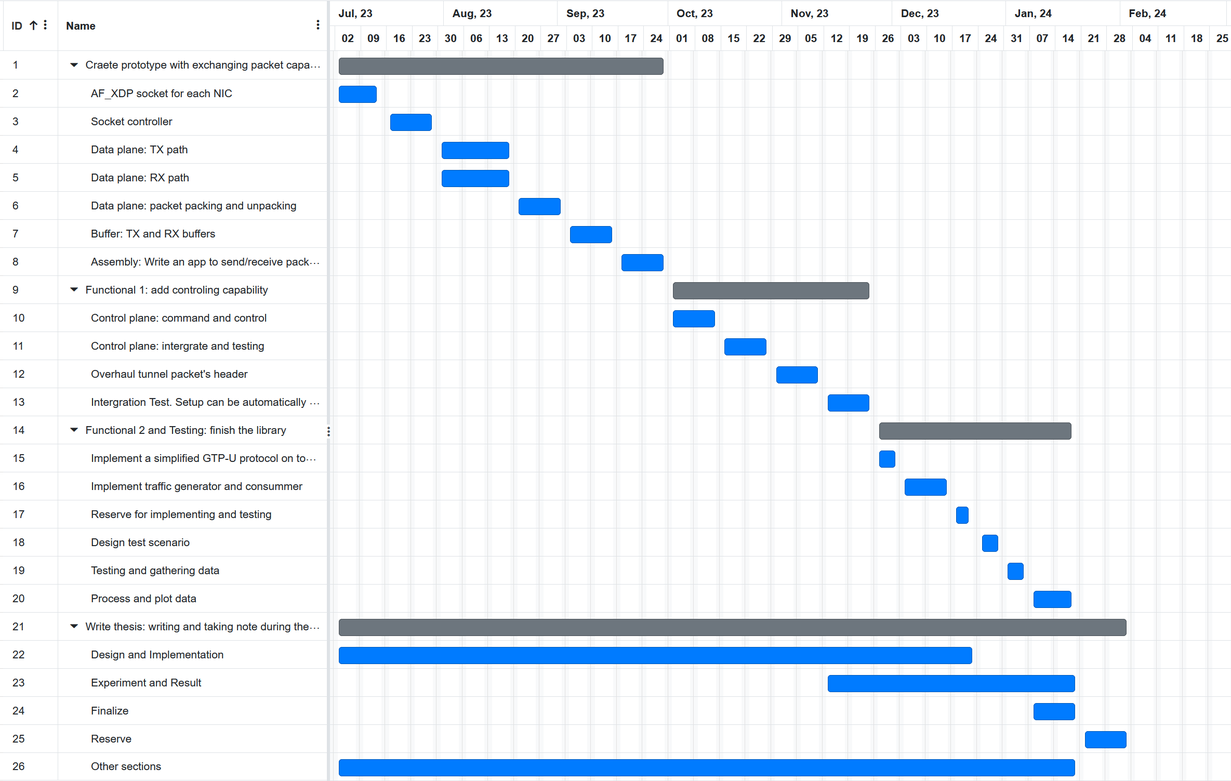
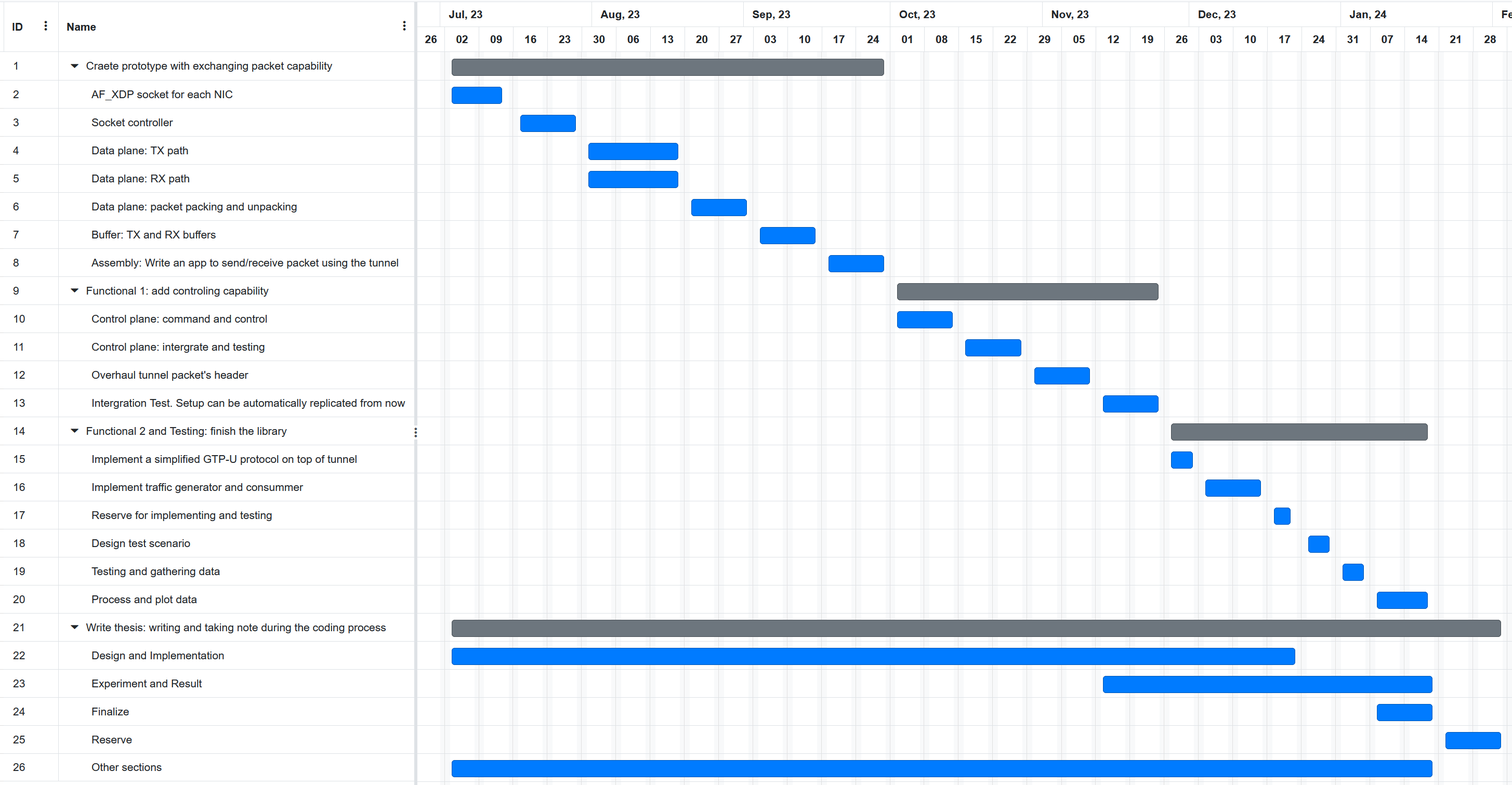
reday for review

diff --git a/src/02_related.tex b/src/02_related.tex
@@ -1,15 +1,5 @@
 \cleardoublepage\chapter{Related Work}\label{sec:related_work}\minitoc\vspace{.5cm}\index{SotA}
 
-\section{Introduction}
-
-% \begin{wrapfigure}{r}{0.2\textwidth}
-%     \centering
-%     \includegraphics[width=0.2\textwidth]{resources/images/example3}
-% \end{wrapfigure}
-
-% \sidenote{Overview}
-% \todomid{write}
-
 The concept of multipath is well-established, and in this section, we will explore notable existing multipath protocols, their characteristics, and highlight the unique aspects of our concept. 
 Additionally, we will discuss future use cases for our \ac{MTX} and examine current solutions and technologies being utilized. 
 Finally, we will take a closer look at the design of the 5G system, with a specific focus on the Data Plane, to explain our plan for showcasing the multipath tunnel using the \ac{gptu} protocol.
@@ -33,9 +23,9 @@ Our primary emphasis is on establishing a connection between two points, irrespe
 % We will explore various protocols that implement the concept and make comparisons with our approach.
 There are 2 approaches to utilize multiple links: managing multiple underlying connections created by existing protocols (\ac{MPTCP} with TCP), and creating a new multipath protocol (\ac{SCTP}).
 Drawing inspiration from these protocols, our design of \ac{MTX} adopts a hybrid approach: a tunnel that transfers data over multiple UDP connections instead of maintaining TCP sessions. 
-The tunnel comprises two primary logical components: the control plane and the transport plane. 
-The control plane handles session management, congestion control overhead, and other administrative tasks, enabling the transport plane to be constructed with wrappers over UDP sockets.
-Unlike serving solely the socket caller, the multipath tunnel is designed to offer connection and flow management for multiple applications, enabling centralized resource management and scheduling.
+The tunnel data path comprises two primary logical stages: the data stage and the transport stage. 
+The data stage handles session management, congestion control overhead, and other administrative tasks, enabling the transport stage to be constructed with wrappers over UDP sockets.
+Unlike serving solely the caller, the multipath tunnel is designed to offer connection and flow management for multiple applications, enabling centralized resource management and scheduling.
 
 \subsection{Multipath TCP}\label{sec:related_work:mp_connection:MPTCP}
 % MultiPath TCP (MPTCP) is an effort towards enabling the simultaneous use of several IP-addresses/interfaces by a modification of TCP that presents a regular TCP interface to applications, while in fact spreading data across several subflows. Benefits of this include better resource utilization, better throughput and smoother reaction to failures. 
@@ -63,7 +53,7 @@ Notably, \ac{SCTP} is used in 5G core design for transmitting messages in Contro
 \begin{figure}[H]
 	\centering
 	\includegraphics[width=0.8\textwidth]{resources/images/3gpp_5g_part_of_control_plane_protocol.png}
-	\caption{Control Plane protocol stack between the UE, the 5G-AN, the AMF and the SMF \cite{3gpp_5g_system_overview}}
+	\caption{3GPP: Control Plane protocol stack between the UE, the 5G-AN, the AMF and the SMF \cite{3gpp_5g_system_overview}}
     \label{fig:related_work:3gpp_5g_part_of_control_plane_protocol}
 \end{figure}
 
@@ -75,13 +65,13 @@ These components are categorized into two groups: the Control plane and the Data
 \begin{figure}[H]
 	\centering
 	\includegraphics[width=1.0\textwidth]{resources/images/Non_Roaming_5G_System_Architecture_in_reference_point_representation.png}
-	\caption{Non-Roaming 5G System Architecture in reference point representation \cite{3gpp_5g_system_architect_spec_release_18}}
+	\caption{Data and Control Plane in 3GPP's Non-Roaming 5G System Architecture in reference point representation \cite{3gpp_5g_system_architect_spec_release_18}}
 	\label{fig:related_work:Non_Roaming_5G_System_Architecture_in_reference_point_representation}
 \end{figure}
 
 As mentioned in \Cref{sec:related_work:mp_connection:SCTP}, the control plane uses \ac{SCTP} protocol with multipath support for its internal communication.
 The Data plane relies on \ac{gptu} protocol with \ac{UDP} as the transport protocol to deliver high volume of data between \ac{UE} and \ac{DN} (see \Cref{fig:introduction:3gpp_5g_data_plane_protocol}), which require powerful processing power and high capable network link.
-According to \ac{3GPP}, an non-exhausted list of \ac{UPF}'s responsibility is Packet routing \& forwarding, Packet inspection, buffering, sending and forwarding \cite{3gpp_5g_system_architect_spec_release_18}.
+According to \ac{3GPP}, an non-exhausted list of \ac{UPF}'s responsibility is \textit{packet routing \& forwarding}, packet \textit{inspection}, \textit{buffering}, \textit{sending} and \textit{forwarding} \cite{3gpp_5g_system_architect_spec_release_18}.
 In order to meet the \ac{SLA} and \ac{QoS} requirements, the \ac{UPF} needs to be deployed in various locations, such as the edge (edge and campus), regional sites, and central data centers \cite{zte_upf_full_whitepaper}. 
 The size and form of each \ac{UPF} instance vary significantly depending on factors such as the number and size of downstream and upstream functions it manages and responds to, as depicted in \Cref{fig:related_work:Deployment_Requirements_of_Full_Scenario_UPF}.
 
@@ -126,8 +116,9 @@ Unlike \ac{dpdkpage}, \ac{xdppage} socket has no monopoly on the \ac{NIC}, thus 
 By providing independent memory space, interrupts, and \ac{DMA} streams for each virtual machine, natively shared devices by \ac{sriov} achieve low latency and lower CPU utilization compared to virtual devices provided by traditional \ac{VMM}'s Virtual Switch or  I/O emulation layer (see \Cref{fig:related_work:intel_sriov_Natively_and_Software_Shared}) \cite{intel_sriov}.
 As the \ac{sriov} specification is developed by \ac{PCISIG}, the consortium responsible for the \ac{PCIe} standard, there is no risk of vendor lock-in or significantly hidden cost.
 A similar but less sophisticated method - namely \ac{PCIe} passthrough - to eliminates emulation overhead on I/O operation in hypervisor environment is completely disconnecting the \ac{PCIe} device from the host kernel and connecting it to the guest \ac{OS} instead, although this makes device sharing impossible.
-However, it is important to note that the \ac{sriov} specification is specifically designed for passing resources to and from a hypervisor environment, which is not conflict with our intended scenario.
-The \ac{MTX} is designed as a general-purpose multipath tunnel that functions on \ac{NIC}s, making \ac{sriov} technology the underlying infrastructure layer for enabling \ac{MTX}'s \ac{xdppage} sockets to operate on the native shared devices, similar to how \ac{ZTE} used \ac{sriov} in conjunction with \ac{dpdkpage} in their software stack \cite{zte_upf_full_whitepaper}.
+It is also important to note that the \ac{sriov} specification is specifically designed for passing resources to and from a hypervisor environment, which is not conflict with our intended scenario.
+The \ac{MTX} is designed as a general-purpose multipath tunnel that functions on \ac{NIC}s, making \ac{sriov} technology the underlying infrastructure layer for enabling \ac{MTX}'s \ac{xdppage} sockets to operate on the native shared devices.
+This is similar to how \ac{ZTE} used \ac{sriov} in conjunction with \ac{dpdkpage} in their software stack \cite{zte_upf_full_whitepaper}.
 
 \begin{figure}[H]
 	\centering
@@ -143,7 +134,7 @@ The \ac{MTX} is designed as a general-purpose multipath tunnel that functions on
 \Cref{fig:related_work:5g_dp_enhancement} describes how data is moved between \ac{UE} and \ac{DN} based on 3GPP specification and various sources.
 A \ac{PDU} session is established to create a logical data path between \ac{UE} and \ac{UPF}.
 This \ac{PDU} logical session runs on top of several transporting protocol.
-Radio Bearer (RB) is the channel to move user data and control data between UE and radio equipment over. 
+Radio Bearer (RB) is the channel to move user data and control data between UE and radio equipment.
 \ac{eCPRI} connects front-haul network and moves user data, controlling and management data, and synchronization data flows between DU and RU \cite{eCPRI_spec}.
 \ac{gptu} connection - often called \textit{tunnel} - helps transferring user data between middle-haul and back-haul networks in UDP packets.
 Data in different categories receive forwarding treatment differently, depends on the priority, subscription, ... 

diff --git a/src/04_design_approach.tex b/src/04_design_approach.tex
@@ -70,8 +70,8 @@ In Linux, tasks can operate in two distinct modes: kernel mode and user mode. Wh
 Invisible to end user, the system switches between kernel mode and user mode very often, usually when a system \ac{API} is involved or a resource needs to be accessed \cite{Robert_linux_kernel_dev}.
 % Although switching between modes is supported by the CPU, significant overhead is caused by switching context and translating memory address.
 % Running code purely in the kernel space could reduce such overhead and have better scheduling policy, however this faces the risk of compromising the system through memory leak, crashing or malicious exploit 
-While the CPU supports mode switching, there is a noticeable overhead associated with context switching and memory address translation. 
-Running code exclusively in the kernel space has the potential to reduce this overhead and improve scheduling policies. 
+Although the CPU supports mode switching, there is a noticeable overhead associated with context switching and memory address translation. 
+Running code exclusively in the kernel space has the potential to reduce this overhead and enjoy \textit{better} scheduling policies. 
 However, such an approach carries inherent risks, including the possibility of system compromise due to memory leaks, crashes, or malicious exploits \cite{lwn_detect_kernel_mem_leak} \cite{emamdoost_detecting_2021}.
 % \ac{BPF} technology is a alternative tool to execute code in kernel space in a controlled environment.
 % It was introduced in 1992 for \ac{BSD} OS and ported to Linux later. 
@@ -98,7 +98,7 @@ To get started, the kernel program is inserted to the desired code path in the k
 \begin{figure}[H]
 	\centering
 	\includegraphics[width=0.8\textwidth]{af_xdp_vs_dpdk_3_micro_benchmarks.PNG}
-	\caption{Comparing performance between \ac{xdppage} and \ac{dpdkpage} \cite{karlsson_path_to_dpdk_speednodate}. The authors tested  rxdrop (dropping all arriving packets), txpush (pushing packets out a NIC) and l2fwd (Level-2-forwarding, replacing MAC address of incoming packets and pushing them out) scenarios.}\label{fig:approach_design:af_xdp_vs_dpdk_3_micro_benchmarks}
+	\caption{Comparing performance between \ac{xdppage} and \ac{dpdkpage} \cite{karlsson_path_to_dpdk_speednodate}. The authors tested  rxdrop (dropping all arriving packets), txpush (pushing packets out a NIC) and l2fwd (Level-2-forwarding, replacing MAC address of incoming packets and pushing them out) scenarios. DPDK continues to be the leading solution in terms of raw performance.}\label{fig:approach_design:af_xdp_vs_dpdk_3_micro_benchmarks}
 \end{figure}
 
 \ac{xdppage} is a type of Linux socket that utilizes \ac{ebpf} to deliver incoming raw network packets arrived from a \ac{NIC} to user space with comparable performance to \ac{dpdkpage} \cite{karlsson_path_to_dpdk_speednodate}. 
@@ -109,7 +109,7 @@ Being a native Linux's feature, \ac{xdppage} has several advantages over other 3
 \begin{itemize}
 	\item Reducing dependency: minimizing the reliance on third-party libraries reduces the concern for potential vulnerabilities.Furthermore, this approach guarantees the longevity of the product, as the socket is maintained by the dedicated team of kernel developers, indicating that the project is unlikely to be discontinued in the near future. 
 	\item License: no special license required. However, the eBPF kernel program must be licensed under GNU \ac{GPL} since anything uses eBPF in kernel space is considered a derivative work \cite{gpl_email_discussion} \cite{linux_license_rule} \cite{lwn_clarify_bpf_license}.
-	\item Security and Update: the open-source and collaborative nature of Linux ensures that its code base is diligently maintained by dedicated maintainers and an active community of contributors.
+	\item Security and Update: the open-source and collaborative nature of Linux ensures that its code base is diligently maintained by dedicated maintainers and an active community of contributors, including researcher from universities and institutes, employee from industrial vendors and individual hobbyist.
 \end{itemize}
 
 \begin{figure}[H]
@@ -124,20 +124,20 @@ Being a native Linux's feature, \ac{xdppage} has several advantages over other 3
 \begin{figure}[H]
 	\centering
 	\includegraphics[width=1.0\textwidth]{mtx_design_and_workflow.png}
-	\caption{The architecture of our MTX tunnel and the flow of packets}
+	\caption{The architecture of our MTX tunnel and the flow of packets. The notation \textit{1, 2 and 3} describe how  packets from application travel through the egress path. Notation \textit{4 to 8} show how application receive the packets from tunnel and normal Linux socket.}
 	\label{fig:approach_design:mtx_design_and_workflow}
 \end{figure}
 
 The tunnel will be implemented in C for Linux. It consisted of 4 main components: eBPF kernel program, shared buffer, data plane and control plane.
 
 \subsection{Buffers}
-Buffers are separated into tx (transmit) and rx (receive) buffers that are available for application use. 
+Buffers are separated into tx (transmit, see notation \textit{1}) and rx (receive, see notation \textit{8}) buffers that are available for application use. 
 These buffers facilitate efficient data transfer for different streams and priorities, allowing the application to write to or read from the appropriate buffer as needed.
 
 \subsection{Kernel Program}
-XDP kernel program is responsible for filtering tunnel packets based on criteria like UDP port, IP address, and the magic number in the tunnel header. 
-These filtered packets are then delivered to the Packet aggregator for subsequent processing. 
-Conversely, all other packets that are not of interest to us are passed through to the Linux network stack.
+XDP kernel program (see notation \textit{4}) is responsible for filtering tunnel packets based on criteria like UDP port, IP address, and the magic number in the tunnel header. 
+These filtered packets are then delivered to the Packet aggregator for subsequent processing (notation \textit{5}). 
+Conversely, all other packets that are not of interest to us are passed through to the Linux network stack (notation \textit{6 and 9}).
 While it may be tempting to offload additional tasks such as unpacking and decryption to the kernel program for improved performance, it is important to note that this approach would significantly increase development time.
 
 \subsection{Data Plane}
@@ -148,9 +148,9 @@ Data plane functionality is divided into two main paths: the TX path and the RX 
 \end{itemize}
 
 \subsection{Control Plane}
-The control plane plays a vital role in the system as it handles various interactions with the application. 
+The control plane plays a vital role in the system as it handles various interactions with the application (notation \textit{7}). 
 It is responsible for configuration management, initiation, termination, and runtime information exchange. 
-The control plane acts as the central control hub, governing and coordinating all other components of the system.
+The control plane acts as the central control hub, governing and coordinating all other components of the tunnel.
 
 % \begin{itemize}
 %     \item Top level

diff --git a/src/01_introduction.tex b/src/01_introduction.tex
@@ -26,6 +26,7 @@ A connection that supports the concept of \textit{multipath} utilizes multiple n
 Protocols like \ac{MPTCP} and \ac{SCTP} operate in this manner, but they are implemented as non-sharable connections.
 A non-share connection is initiated similarly to establishing a socket and can only be utilized by the program initiating it. This limitation severely restricts the ability to effectively control, schedule, and share multipath resources among multiple applications. 
 Tasks such as prioritization and buffering become challenging without a centralized control plane that can orchestrate communication channels, which is currently absent in these protocols.
+
 %
 We propose another tunnel implementation: \ac{MTX}. 
 % The tunnel will have multipath support by design, allow multiple applications to share the connection simultaneously, and be built based on Linux's \ac{xdppage} socket family.
@@ -132,26 +133,20 @@ This allows for improved reliability and more effective utilization of resources
 
 % \sidenote{Research Assumptions}
 % \todomid{write about the research assumptions~\cite{li2002design}}
-Besides the reliability's \ac{QoS} characteristic, we define the metrics to measure performance of a tunnel as follow:
-\begin{itemize}
-    \item Bandwidth: Quantity of data that can be transmitted through per second, usually measured in Megabit per Second (Mb/s) or Gigabit  per Second (Gb/s)
-    \item Latency: Delay, measured in microsecond (us) or millisecond (ms). Latency introduced by the tunneling process at both ends compared to sending data over the same public path without the tunnel.
-    \item System load: Tunneling process costs CPU time and RAM usage.
-\end{itemize}
 
 % The idea
 The project is inspired by \ac{5G}'s \ac{NFV} and \ac{SDN} influenced specification.
 Being recognized as the 2 technology enabler for realizing 5G networks, they allow concepts such as \textit{slicing} or \textit{decoupling} of hardware-software planes and control-data planes \cite{yousaf_nfv_sdn_key_techno_for_5g2017} \cite{open_baton} which make \ac{5G} a much more capable network standard than its predecessor while remains flexible and agile for operators \todo{better wording here}.
 \ac{NFV} moves dedicated functions such as router, firewall that traditionally ran on dedicated hardware to virtualized environment and cloud-based infrastructure.
 \ac{SDN} encourages using software based solution running on common hardware and software stack over conventional equipment and services which integrated on rigid hardware-based proprietary.
-\ac{NFV} and \ac{SDN} thus helps reducing capital and operational expenditures, speeding up the release process and avoid vendor locking \cite{yousaf_nfv_sdn_key_techno_for_5g2017} \cite{sun_integrating_2015}.
+\ac{NFV} and \ac{SDN} thus helps reducing capital and operational expenditures, speeding up the release process and avoid vendor locking \cite{yousaf_nfv_sdn_key_techno_for_5g2017}\cite{sun_integrating_2015}.
 These trends heavily influence the 5G infrastructure to employ recent software industry's practices, which include agile development, orchestration, moving to cloud, dynamic deployment, and \ac{HA} through horizontal partition.
 \ac{5G}'s distributed network services and diverse \ac{QoS} require reliable and high throughput connection, which as discussed in \Cref{sec:introduction:problem_statement} can be horizontally implemented in an performant and cost-effective way using multiple links instead of vertical scaling paradigm.
 
 % building block:
-Moving functions to cloud and virtual environment faces performance challenges, one of which is the overhead introduced by the abstraction, virtualization layers as well as the extra input/output and communication between functions that can be found locally before \cite{yousaf_nfv_sdn_key_techno_for_5g2017}.
+Moving functions to cloud and virtual environment faces performance challenges, one of which is the overhead introduced by the abstraction, virtualization layers as well as the extra input/output and communication between functions that could be found locally before \cite{yousaf_nfv_sdn_key_techno_for_5g2017}.
 Although the running newly designed cloud-native software on orchestrated thin containers help addressing the performance problem, we believe some aspects of the connection can be improved further, namely compatibility and ease of development and deployment.
-In many 5G's implementation, technologies such as \ac{dpdkpage} and \ac{sriov} are being used to deliver line-speed packet processing capability to hypervisor environment with minimal impact on system performance \cite{intel_dpdk_perf} \cite{openstack_sriov} \cite{zte_5g_core_upf_impl} \cite{nec_hite_paper_upf_perf}.
+In many 5G's implementation, technologies such as \ac{dpdkpage} and \ac{sriov} are being used to deliver line-speed packet processing capability to hypervisor environment with minimal impact on system performance \cite{intel_dpdk_perf}\cite{nec_hite_paper_upf_perf}\cite{openstack_sriov}\cite{zte_5g_core_upf_impl}.
 We believe that these technologies proved their worthy, yet the systems suffer from limitation such as special requirement and configuration \todo{cite, that dpdk and sriov can't run on all commercial system}.
 This would not only increase cost, but also make the product less attractive for research and test bed purposes, especially in the open source and academy community where budget and custom support is limited.
 To address this, using a native and more simple Linux's technology - \ac{xdppage}, a new socket family based on eBPF technology with comparable performance to \ac{dpdkpage} - to build a tunnel that is designed to support multipath and multi-flow could be a promising supplement for existing implementation. \todo{more}

diff --git a/src/03_requirements.tex b/src/03_requirements.tex
@@ -9,7 +9,7 @@ This \ac{MTX} library will enable the establishment of a network tunnel between 
 The test program will serve as a demonstration platform for the library, simulating a transport session using the \ac{gptu} protocol — a 5G technology employed for tunneling a significant volume of non-homogeneous data.
 During the demonstration, the library's capabilities will be showcased, including flow management, throughput control, and other essential features that align with the intended purpose of the library.
 
-\section{Current solution}
+\section{Current solution}\label{sec:reqs:current_solutions}
 % Multipath is equivalent to horizontal scaling to increase connection capacity.
 % It is also a method to achieve better reliability by building redundancy.
 % Quality of service can also be improve by providing treatment and links optimized for different data flows.
@@ -20,9 +20,11 @@ Finally, through the establishment of a multipath tunnel, the resources availabl
 This leads to improved resource utilization and overall efficiency in the network.
 
 Current tunnel and VPN solutions available in the market are limited to single-path functionality. While protocols like \ac{MPTCP} and \ac{SCTP} are well-known for their multipath capabilities, they are primarily designed for exclusive use by a single caller.
-Our focus lies in exploring how high-demand applications, particularly within the 5G infrastructure, handle the substantial traffic volume. Interestingly, certain implementations leverage DPDK to enhance packet forwarding and processing capabilities beyond the limitations of the Linux network stack. However, these software stacks are not readily accessible for research and testing purposes without purchasing expensive system.
+% Our focus lies in exploring how high-demand applications, particularly within the 5G infrastructure, handle the substantial traffic volume. 
+Certain implementations leverage DPDK to enhance packet forwarding and processing capabilities beyond the limitations of the Linux network stack on multiple links. 
+However, these software stacks are not readily accessible for research and testing purposes without purchasing expensive system.
 
-\section{Proposed solution}
+\section{Proposed solution}\label{sec:reqs:proposed_solution}
 To address the need for a multipath connection that supports non-homogeneous and concurrent usage, we introduce the concept of a multipath tunnel. 
 Our proposal aims to bridge the gap by enabling the utilization of multiple paths simultaneously.
 To ensure optimal path utilization and minimal latency, we will utilize \ac{xdppage} technology to handle the movement of tunnel traffic. 
@@ -38,16 +40,23 @@ The following section will present the requirements for the project. \todo{impro
 
 \subsection{Functional requirements}
 % Functional requirements describes the high-level functionality of the system.
-We define the functional requirements for the \ac{MTX} library:
+The functional requirements for the \ac{MTX} library shall include ability to:
 \begin{itemize}
-    \item Given multiple \ac{NIC}s, \ac{MTX} library shall be able to establish a tunnel between 2 hosts and exchange data through the tunnel over the chosen \ac{NIC}s.
-    \item The \ac{MTX} library shall send and receive tunnel's UDP packets using \ac{xdppage} socket exclusively.
-    \item The\ac{MTX} library shall support for path-level control and treatment, including scheduling, path failure detection and initiation. \todo{more}
-    \item The\ac{MTX} library shall provide support for flow-level control and treatment, including setting and enforcing priority, traffic shaping, resource allocation for sensitive requirement (i.e path for low latency data).
-    \item A centralized controller shall be provided. Users shall have access to configuration options for the aforementioned features.
+    \item Establish a tunnel between 2 hosts and exchange data through the tunnel over the chosen \ac{NIC}s.
+    \item Send and receive tunnel's UDP packets using \ac{xdppage} socket exclusively.
+    \item Support for path-level control and treatment, including scheduling, path failure detection and initiation. \todo{more}
+    \item Provide support for flow-level control and treatment, including setting and enforcing priority, traffic shaping, resource allocation for sensitive requirement (i.e path for low latency data).
+    \item Provide a centralized controller, where users have access to configuration options for the aforementioned features.
 \end{itemize}
 
 \subsection{Nonfunctional requirements}
+Besides the reliability's \ac{QoS} characteristic, we define the metrics to measure performance of a tunnel as follow:
+\begin{itemize}
+    \item Bandwidth: Quantity of data that can be transmitted through per second, usually measured in Megabit per Second (Mb/s) or Gigabit  per Second (Gb/s)
+    \item Latency: Delay, measured in microsecond (us) or millisecond (ms). Latency introduced by the tunneling process at both ends compared to sending data over the same public path without the tunnel.
+    \item System load: Tunneling process costs CPU time and RAM usage.
+\end{itemize}
+
 We define the non-functional requirements for the \ac{MTX} library:
 \begin{itemize}
     \item Usability: \ac{MTX} library should be used similar to a Linux socket. A global configuration will be responsible for managing the overall configuration of the tunnel. On the other hand, each caller will have the ability to configure the traffic characteristics according to their specific requirements.

diff --git a/src/05_plan.tex b/src/05_plan.tex
@@ -1,22 +1,24 @@
 % \cleardoublepage
 \chapter{Plan and Timeline}\minitoc\label{sec:plan}\vspace{.5cm}
 
+This chapter will outline our project plan and provide a timeline for its execution.
+
 \section{Project Plan}
 
-During the development phase, we adhere to the rapid prototyping model \Cref{fig:plan:rapid_prototyping_software}. 
+\begin{figure}[H]
+	\centering
+	\includegraphics[width=0.6\textwidth]{rapid_prototyping_software.png}
+	\caption{Rapid prototyping cycle \cite{marketsplash_rapid_2021}}
+	\label{fig:plan:rapid_prototyping_software}
+\end{figure}
+
+During the development phase, we adhere to the rapid prototyping model (\Cref{fig:plan:rapid_prototyping_software}). 
 This approach involves starting with a high-level architecture rather than a detailed, concrete design. 
 The focus is on breaking down features and components into tasks, allowing for agile and iterative development. 
 This approach enables us to quickly prototype and test different functionalities, leading to efficient development and flexibility in the design process.
 Each task is designed to be self-contained and independent, allowing for development and testing within the existing code base. 
 The development process follows a loop of building prototypes, reviewing them, refining the implementation, and iterating on the design. 
 The goal is to complete each task within a time frame of 1-2 weeks, ensuring a focused and efficient development process. This iterative approach allows for rapid progress and continuous improvement throughout the project.
-
-\begin{figure}[H]
-	\centering
-	\includegraphics[width=1.0\textwidth]{rapid_prototyping_software.png}
-	\caption{Rapid prototyping cycle \cite{marketsplash_rapid_2021}}
-	\label{fig:plan:rapid_prototyping_software}
-\end{figure}
 
 The development process will take place within a Linux environment. 
 As for testing purposes, the program binary will be deployed and executed on 2 industrial-grade computers \textit{UP CORE} designed by \ac{AAEON}, equipped with multiple Ethernet ports \cite{upc_core} \cite{upc_extension_board}. 
@@ -27,19 +29,27 @@ In this setup, RAN (Radio Access Network) and Open5GS software will be installed
 
 \begin{figure}[H]
 	\centering
-	\includegraphics[width=1.0\textwidth]{upc_machines.png}
-	\caption{Two UPC machines with 3 ethernet ports connected (enp3s0, enp5s0, enp7s0). Port enp1s0 is connected to workstation for remote management purpose.}
+	\includegraphics[width=0.8\textwidth]{upc_machines.png}
+	\caption{Two UPC machines with 3 ethernet ports connected (\textit{enp3s0}, \textit{enp5s0}, \textit{enp7s0}). Port \textit{enp1s0} is connected to workstation for remote management purpose.}
 	\label{fig:plan:upc_machines}
 \end{figure}
 
 
-\clearpage
 \section{Timeline}
+\Cref{fig:plan:TIMELINE} presents the timeline for this project. 
+To successfully complete the thesis, three primary objectives must be accomplished: implementation, experimentation, and thesis documentation.
+The implementation phase will be divided into two stages: the foundation library, which focuses on building the essential features, followed by the functional library, where the remaining features outlined in \Cref{sec:reqs:proposed_solution} will be implemented. 
+Once the implementation is complete, the experimentation phase will commence. 
+Concurrently, the documentation will be developed throughout the project's duration, incorporating the necessary content.
 
+The thesis is set to be completed in 6 months.
+
+\clearpage
 \begin{sidewaysfigure}
     \centering
     \includegraphics[width=1.0\textwidth]{resources/images/TIMELINE.PNG}
     \caption{Expected progress. The thesis can be finished in 6 months..}
+	\label{fig:plan:TIMELINE}
   \end{sidewaysfigure}
 
 

diff --git a/thesis_template.acro.tex b/thesis_template.acro.tex
@@ -1,7 +1,7 @@
 
 \DeclareAcronym{3GPP}{short={3GPP}, long={3rd Generation Partnership Project}, long-post={\acroiffirstT{\footnote{\url{https://www.3gpp.org/}}}}}
 \DeclareAcronym{5G}{short={5G}, long={5th Generation Mobile Network}}
-\DeclareAcronym{AAEON}{short={AAEON}, long={AAEON}, long-post={\acroiffirstT{\footnote{\url{https://www.aaeon.com/}}}}}
+\DeclareAcronym{AAEON}{short={AAEON}, long={AAEON}, long-post={\acroiffirstT{\footnote{\url{https://www.aaeon.com/}}}}, first-style = long, tag=exclude}
 \DeclareAcronym{ABAC}{short={ABAC}, long={Attributed Based Access Control}, cite={li2002design,Yuan2005}}
 \DeclareAcronym{AI}{short={AI}, long={Artificial Intelligence }}
 \DeclareAcronym{AMF}{short={AMF}, long={Access and Mobility Management Function}}
@@ -13,7 +13,7 @@
 \DeclareAcronym{DBpedia}{short={DBpedia}, long={DBpedia}, cite={Auer2007}, long-post={\acroiffirstT{\footnote{\url{http://dbpedia.org}}}}, first-style = long, tag=exclude}
 \DeclareAcronym{DMA}{short={DMA}, long={Direct Memory Access}}
 \DeclareAcronym{DN}{short={DN}, long={Data Network}}
-\DeclareAcronym{dpdkpage}{short={DPDK}, long={Data Plane Development Kit}, long-post={\acroiffirstT{\footnote{\url{https://www.dpdk.org/}}}}, first-style = long, tag=exclude}
+\DeclareAcronym{dpdkpage}{short={DPDK}, long={Data Plane Development Kit}, long-post={\acroiffirstT{\footnote{\url{https://www.dpdk.org/}}}}}
 \DeclareAcronym{ebpf}{short={eBPF}, long={Extended BPF}}
 \DeclareAcronym{eCPRI}{short={eCPRI}, long={evolved Common Public Radio Interface}}
 \DeclareAcronym{GPL}{short={GPL}, long={General Public License }, long-post={\acroiffirstT{\footnote{\url{https://www.gnu.org/licenses/licenses.html}}}}}

diff --git a/src/10_bibliography.tex b/src/10_bibliography.tex
@@ -1,4 +1,4 @@
-\cleardoublepage
+% \cleardoublepage
 \chapter*{Acronyms}
 \mtcaddchapter\addstarredchapter{Acronyms}
 \markboth{Acronyms}{Acronyms}
@@ -6,14 +6,14 @@
 \renewcommand*{\chapterthumbformat}{Acronyms}
 \printacronyms[name={}, exclude=exclude]
 
-\cleardoublepage
+% \cleardoublepage
 \stepcounter{chapter}
 \renewcommand{\glossaryname}{Glossary}
 \markboth{\glossaryname}{\glossaryname}
 \renewcommand*{\chapterthumbformat}{\glossaryname}
 \printglossary%
 
-\cleardoublepage
+% \cleardoublepage
 \chapter*{Bibliography}
 \mtcaddchapter\addstarredchapter{Bibliography}
 \markboth{Bibliography}{Bibliography}
@@ -26,6 +26,12 @@
 \newrefcontext[labelprefix=a]
 \printbibliography[keyword=own,heading=empty,category=cited]
 
+\section*{References to Books}
+\defbibfilter{books}{
+  type=book
+}
+\newrefcontext[labelprefix=b]
+\printbibliography[filter=books,heading=empty,category=cited,notkeyword=own]
 
 \section*{References to Scientific Publications}
 \defbibfilter{papers}{
@@ -35,7 +41,7 @@
   or type=journal
   or type=phdthesis
   or type=incollection
-  or type=book
+  % or type=book
   or keyword=thesis
   and not keyword=W3C
   and not keyword=RFC
@@ -94,8 +100,8 @@
 \printbibliography[filter=misc,heading=empty,category=cited,notkeyword=own]
 
 
-\section*{Not referenced (will be empty)}
-\todo{this section should be empty at the end}
-\nocite{*}
-\newrefcontext[labelprefix=x]
-\printbibliography[heading=empty,notcategory=cited,notkeyword=own]
+% \section*{Not referenced (will be empty)}
+% \todo{this section should be empty at the end}
+% \nocite{*}
+% \newrefcontext[labelprefix=x]
+% \printbibliography[heading=empty,notcategory=cited,notkeyword=own]
